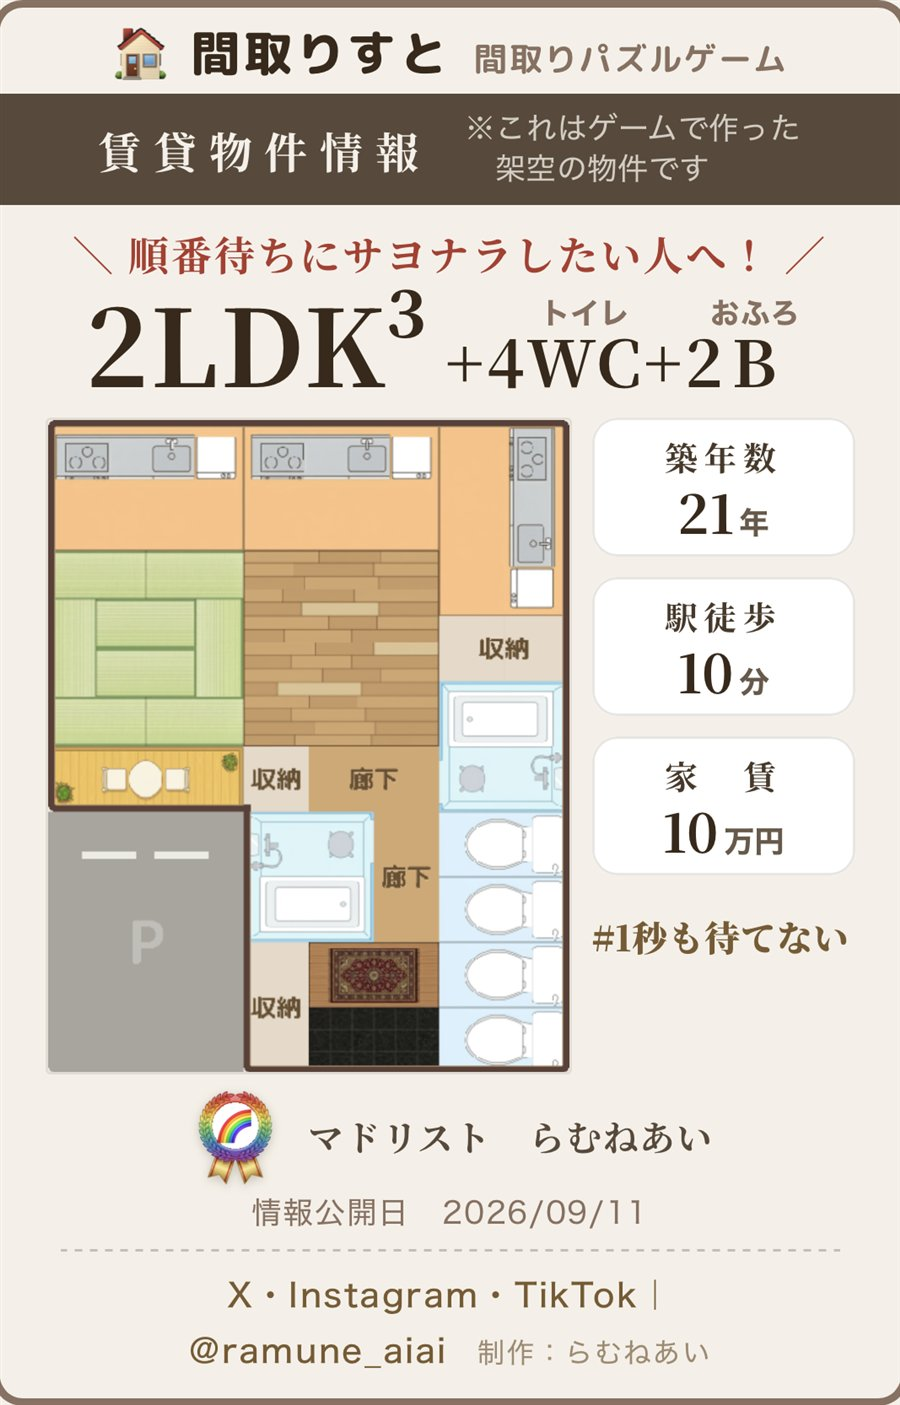
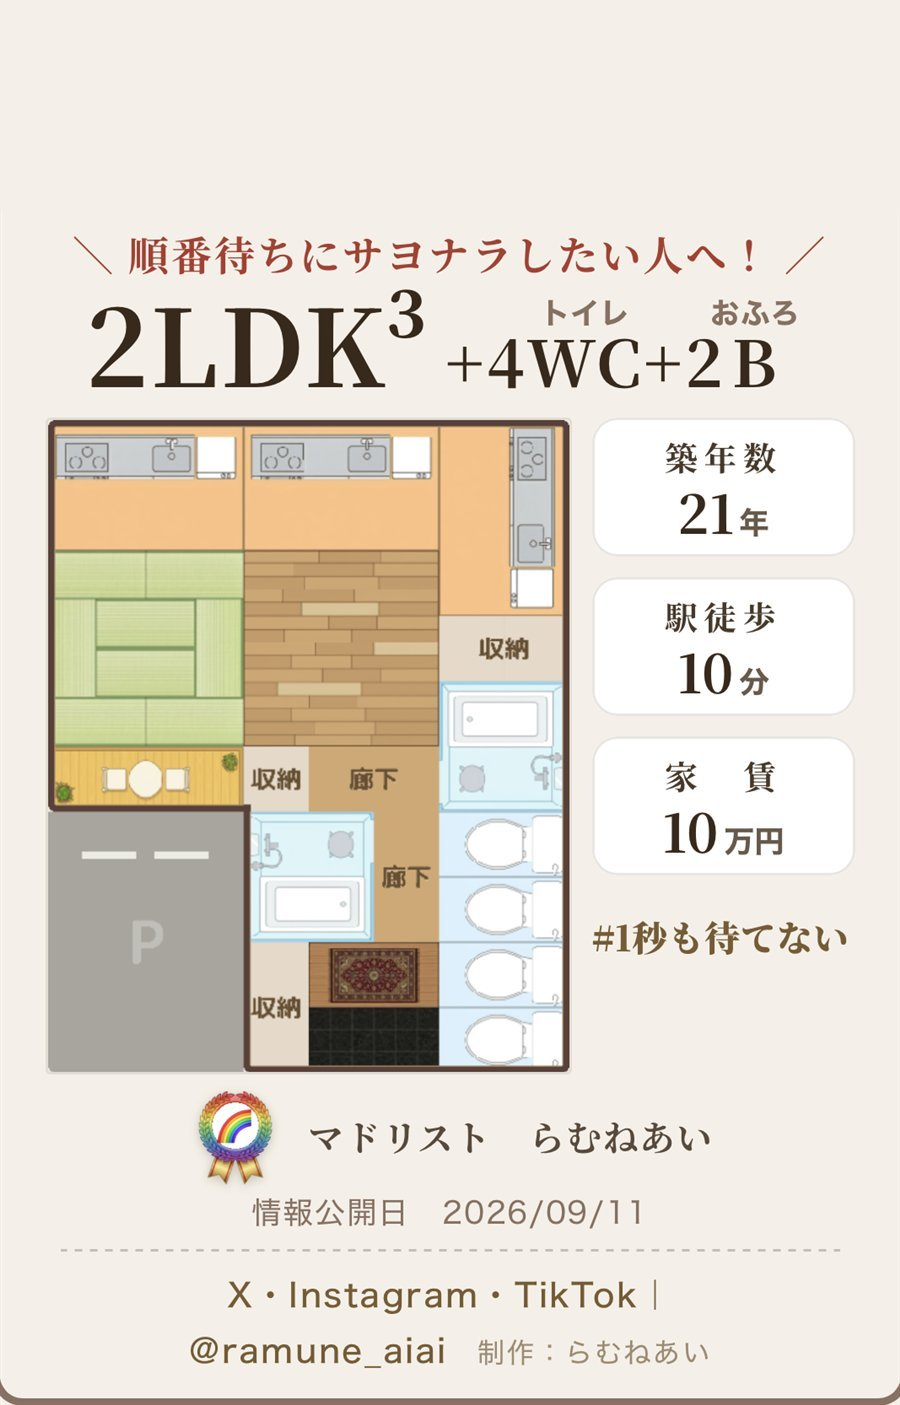
Add files via upload

Changed region(s): [[0.0, 0.0, 1.0, 0.153]]

diff --git a/index.html b/index.html
@@ -464,17 +464,30 @@
     font-weight:700;font-size:.68rem;padding:4px 40px;z-index:3;box-shadow:0 4px 10px rgba(0,0,0,.15)}
   .gmedia{position:relative;aspect-ratio:16/9;display:flex;align-items:center;justify-content:center;overflow:hidden}
   .gmedia video,.gmedia img{width:100%;height:100%;object-fit:cover}
-  /* 元画像が縦長（シェアカード）なのを横長16:9の枠にはめている。
-     object-position で「どの高さを見せるか」を指定していて、
-     上に寄せすぎるとタイトル文字だけになり、下に寄せすぎるとハッシュタグだけになる。
-     37%あたりが「4LDK+3WC+1B」の見出し〜間取り図の上部が両方見える位置 */
-  .gshot{object-position:50% 26%}
+  /* 元画像が縦長（シェアカード）なのを、横長16:9の枠にはめている。
+     object-position は「元画像のどの高さを見せるか」の指定。
+
+     ★20% の根拠（画像を実測して決めた数字）★
+       元画像 900×1405px。見える範囲の高さは 506px なので、
+       上端の位置 ＝ (1405 − 506) × 20% ＝ 180px あたり。
+       キャッチコピー「順番待ちに…」は 239px から始まるので、
+       その上に約 59px ぶんの余白ができる。
+
+     ※元画像の上部にあった濃い茶色の帯「賃貸物件情報」は、
+       枠に入れると間取り図がほとんど見えなくなるため、
+       画像側で背景色に塗りつぶしてある（assets/game-madori-share.jpg）。
+       おかげでコピーの上に余白を取れるようになった。 */
+  .gshot{object-position:50% 20%}
+
   .gmedia-badge{position:absolute;right:10px;bottom:10px;font-size:.68rem;font-weight:700;
     color:#6a5a7a;background:rgba(255,255,255,.88);padding:5px 10px;border-radius:99px;
     box-shadow:0 2px 6px rgba(120,90,160,.2)}
   .gph{width:100%;height:100%;display:flex;flex-direction:column;align-items:center;justify-content:center;gap:4px;color:#fff;font-weight:700}
   .gph.madori{background:linear-gradient(135deg,var(--sky),var(--grape))}
-  .gph.abc{background:linear-gradient(135deg,var(--pink),var(--tangerine))}
+  /* ABC雪合戦は雪のゲームなので、寒色のグラデーションにしている。
+     間取りすと（水色→紫）とは別物に見えるよう、こちらは水色→青でまとめた。
+     白抜きのタイトルが乗るので、明るい側を明るくしすぎないこと */
+  .gph.abc{background:linear-gradient(135deg,#6fc9ee,#3f6fc0)}
   /* ★ここが「間」「雪」が潰れて見えていた本当の原因★
      text-shadow の blur(6px)が、画数の多い漢字の内側の白い隙間ににじみ出て、
      隙間を塗りつぶしたように見せていた。文字が大きくても関係なく起きる。
